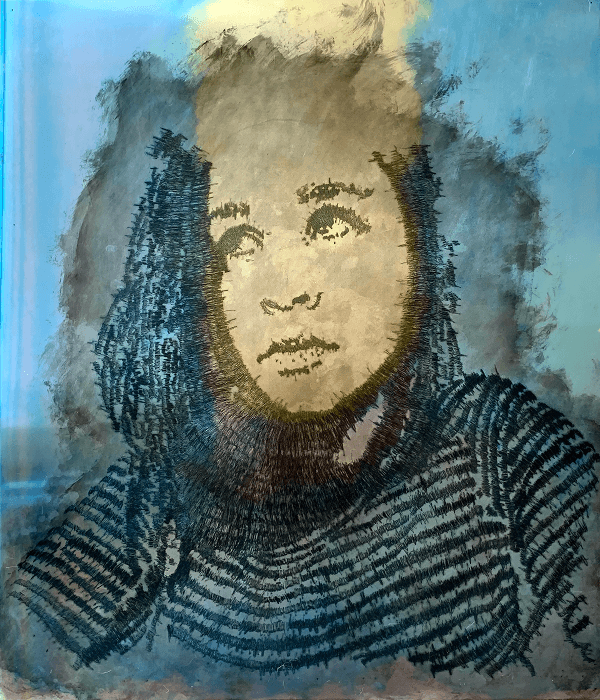
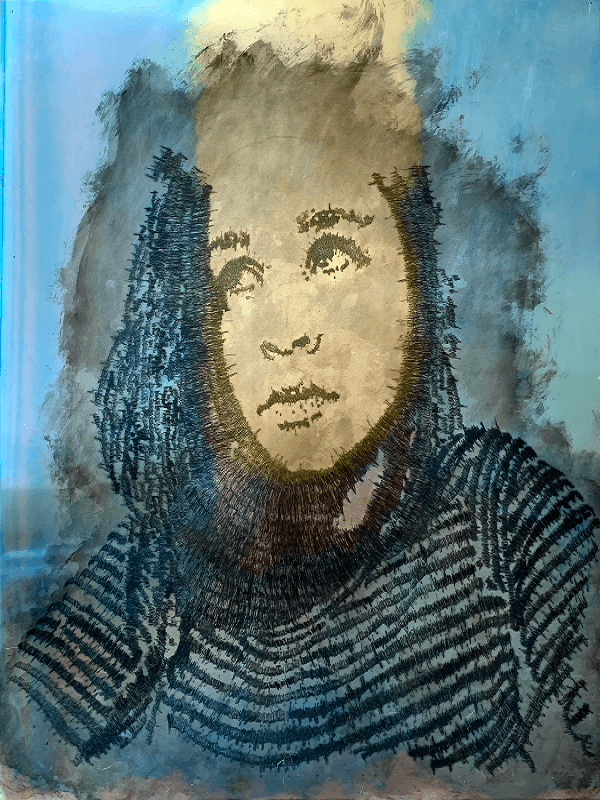
update: installations gallery images resized

Changed region(s): [[0.27, 0.51, 0.3, 0.54]]

diff --git a/src/Components/Installations/Installations.jsx b/src/Components/Installations/Installations.jsx
@@ -78,8 +78,7 @@ const Installations = () => {
                 <div className="main__image__container">
                     <img src={Image1} className="main__image" alt="Main image" />
                 </div>
-                    <h2 className="installations__content">Instalaciones</h2>
-                    <p className="installations__content">En esta sección se muestran las instalaciones</p>
+                    <p className="installations__content">La poesía se hace tachando, 2015. Fragmentos de obras, objetos encontrados, dimensiones variables.</p>
                 <div className="sub__images__container">
                     <img src={Image2} className="sub-image" alt="Sub Image 1" />
                     <img src={Image3} className="sub-image" alt="Sub Image 2" />
@@ -91,8 +90,7 @@ const Installations = () => {
                 <div className="main__image__container">
                     <img src={Image6} className="main__image" alt="Main image" />
                 </div>
-                    <h2 className="installations__content">Instalaciones</h2>
-                    <p className="installations__content">En esta sección se muestran las instalaciones</p>
+                    <p className="installations__content">Retablo in sacris, 2010. Libro de Historia del Arte, objetos familiares donados, dimensiones variables.</p>
                 <div className="sub__images__container">
                     <img src={Image7} className="sub-image" alt="Sub Image 1" />
                 </div>
@@ -101,27 +99,25 @@ const Installations = () => {
                 <div className="main__image__container">
                     <img src={Image13} className="main__image" alt="Main image" />
                 </div>
-                    <h2 className="installations__content">Instalaciones</h2>
-                    <p className="installations__content">En esta sección se muestran las instalaciones</p>
+                    <p className="installations__content">El objeto huérfano, 2018. Grabado sobre metal y tinta de imprenta, dimensiones variables.</p>
                 <div className="sub__images__container">
-                    <img src={Image8} className="sub-image" alt="Sub Image 1" />
-                    <img src={Image9} className="sub-image" alt="Sub Image 2" />
-                    <img src={Image10} className="sub-image" alt="Sub Image 3" />
+                    <img src={Image8} className="sub-image sub9" alt="Sub Image 1" />
+                    <img src={Image9} className="sub-image sub9" alt="Sub Image 2" />
+                    <img src={Image10} className="sub-image sub9" alt="Sub Image 3" />
                     {/* <img src={Image11} className="sub-image" alt="Sub Image 4" /> */}
-                    <img src={Image12} className="sub-image" alt="Sub Image 4" />
-                    <img src={Image14} className="sub-image" alt="Sub Image 4" />
-                    <img src={Image15} className="sub-image" alt="Sub Image 4" />
-                    <img src={Image16} className="sub-image" alt="Sub Image 4" />
-                    <img src={Image17} className="sub-image" alt="Sub Image 4" />
-                    <img src={Image18} className="sub-image" alt="Sub Image 4" />
+                    <img src={Image12} className="sub-image sub9" alt="Sub Image 4" />
+                    <img src={Image14} className="sub-image sub9" alt="Sub Image 4" />
+                    <img src={Image15} className="sub-image sub9" alt="Sub Image 4" />
+                    <img src={Image16} className="sub-image sub9" alt="Sub Image 4" />
+                    <img src={Image17} className="sub-image sub9" alt="Sub Image 4" />
+                    <img src={Image18} className="sub-image sub9" alt="Sub Image 4" />
                 </div>
             </section>
             <section className="installations__container">
                 <div className="main__image__container">
                     <img src={Image19} className="main__image" alt="Main image" />
                 </div>
-                    <h2 className="installations__content">Instalaciones</h2>
-                    <p className="installations__content">En esta sección se muestran las instalaciones</p>
+                    <p className="installations__content">Caja con objetos, 2010. Objetos donados, metal, tinta de imprenta, 60 cm cúbicos. Objetos donados por internos de la Prisión de Quivicán, la Habana, Cuba.</p>
                 <div className="sub__images__container">
                     <img src={Image20} className="sub-image" alt="Sub Image 1" />
                     <img src={Image21} className="sub-image" alt="Sub Image 2" />
@@ -133,8 +129,7 @@ const Installations = () => {
                 <div className="main__image__container">
                     <img src={Image25} className="main__image" alt="Main image" />
                 </div>
-                    <h2 className="installations__content">Instalaciones</h2>
-                    <p className="installations__content">En esta sección se muestran las instalaciones</p>
+                    <p className="installations__content">Sujetos, 2011. Madera, fragmentos de objetos (grafito, lápiz labial, uñas, heces fecales de gato, fotografía, papel de lija, entre otros), dimensiones variables.</p>
                 <div className="sub__images__container">
                     <img src={Image24} className="sub-image" alt="Sub Image 1" />
                 </div>
@@ -143,8 +138,7 @@ const Installations = () => {
                 <div className="main__image__container">
                     <img src={Image26} className="main__image" alt="Main image" />
                 </div>
-                    <h2 className="installations__content">Instalaciones</h2>
-                    <p className="installations__content">En esta sección se muestran las instalaciones</p>
+                    <p className="installations__content">ST, 2010. Madera y objetos personales, dimensiones variables.</p>
                 <div className="sub__images__container">
                     <img src={Image27} className="sub-image" alt="Sub Image 1" />
                 </div>
@@ -153,8 +147,7 @@ const Installations = () => {
                 <div className="main__image__container">
                     <img src={Image29} className="main__image" alt="Main image" />
                 </div>
-                    <h2 className="installations__content">Instalaciones</h2>
-                    <p className="installations__content">En esta sección se muestran las instalaciones</p>
+                    <p className="installations__content">Qué hacer con una casa sin alma, 2018. Video proyección sobre cristal, dimensiones variables.</p>
                 <div className="sub__images__container">
                     <img src={Image28} className="sub-image" alt="Sub Image 1" />
                     <img src={Image30} className="sub-image" alt="Sub Image 1" />
@@ -165,8 +158,7 @@ const Installations = () => {
                 <div className="main__image__container">
                     <img src={Image32} className="main__image" alt="Main image" />
                 </div>
-                    <h2 className="installations__content">Instalaciones</h2>
-                    <p className="installations__content">En esta sección se muestran las instalaciones</p>
+                    <p className="installations__content">S/T (Dos), 2014. Video proyección, repisa de cristal y metal, dimensiones variables.</p>
                 {/* <div className="sub__images__container">
                     <img src={Image28} className="sub-image" alt="Sub Image 1" />
                     <img src={Image30} className="sub-image" alt="Sub Image 1" />
@@ -177,8 +169,7 @@ const Installations = () => {
                 <div className="main__image__container">
                     <img src={Image39} className="main__image" alt="Main image" />
                 </div>
-                    <h2 className="installations__content">Instalaciones</h2>
-                    <p className="installations__content">En esta sección se muestran las instalaciones</p>
+                    <p className="installations__content">Nadar en seco, 2014. Tela, fragmentos de vidrios, fragmentos de imágenes, muebles de madera, dimensiones variables.</p>
                 <div className="sub__images__container">
                     <img src={Image33} className="sub-image" alt="Sub Image 1" />
                     <img src={Image34} className="sub-image" alt="Sub Image 1" />
@@ -192,8 +183,7 @@ const Installations = () => {
                 <div className="main__image__container">
                     <img src={Image41} className="main__image" alt="Main image" />
                 </div>
-                    <h2 className="installations__content">Instalaciones</h2>
-                    <p className="installations__content">En esta sección se muestran las instalaciones</p>
+                    <p className="installations__content">Soledad, 2015. Registro en texto de todos los objetos de mi casa en San Antonio de los Baños, Artemisa, Cuba, 20 x 20cm.</p>
                 <div className="sub__images__container">
                     <img src={Image40} className="sub-image" alt="Sub Image 1" />
                 </div>
@@ -202,8 +192,7 @@ const Installations = () => {
                 <div className="main__image__container">
                     <img src={Image44} className="main__image" alt="Main image" />
                 </div>
-                    <h2 className="installations__content">Instalaciones</h2>
-                    <p className="installations__content">En esta sección se muestran las instalaciones</p>
+                    <p className="installations__content">A (rl) mas Blancas, 2019. Tinta, papel y cristales rotos, dimensiones variables.</p>
                 <div className="sub__images__container">
                     <img src={Image42} className="sub-image" alt="Sub Image 1" />
                     <img src={Image43} className="sub-image" alt="Sub Image 1" />

diff --git a/src/Components/Installations/installations.css b/src/Components/Installations/installations.css
@@ -11,7 +11,7 @@
     justify-content: center;
     gap: 1rem;
     padding: 1rem;
-    margin-bottom: 3rem;
+    margin-bottom: 5rem;
 }
 
 .main__image__container {
@@ -26,8 +26,10 @@
     flex: 1;
     /* Right column takes remaining space */
     display: flex;
-    flex-wrap: wrap;
     flex-direction: row;
+    flex-wrap: wrap;
+    align-items: center;
+    justify-content: center;
     gap: 0.7rem;
     padding: 0;
     /* Adjust the gap between images */
@@ -36,20 +38,33 @@
     width: 10rem;
     /* Ensure sub images fill their container */
 }
-
+.sub-image.sub9 {
+    width: 7%;
+    height: auto;
+}
+/* 
 h2.installations__content {
     text-align: start;
     font-size: 1rem;
     margin-bottom: -1rem;
-}
+} */
 p.installations__content {
-    text-align: start;
-    font-size: 1rem;
-    margin: 0;
+    font-size: 1.2rem;
+    text-align: center;
+    margin-top: 0;
+    color: rgb(165, 164, 164);
+    width: 40%;
 }
 
-
-
+@media screen and (width <=1089px) {
+    p.installations__content {
+        width: 65%;
+    }
+    .sub-image.sub9 {
+        width: 8%;
+        height: auto;
+    }
+}
 
 @media screen and (width <=733px) {
     .main__image__container {
@@ -69,7 +84,15 @@ p.installations__content {
         width: 8rem;
         height: auto;
     }
+    .sub-image.sub9 {
+        width: 15%;
+        height: auto;
+    }
+    p.installations__content {
+        width: 90%;
+    }
 }
+
 @media screen and (width <=535px) {
     .main__image {
         width: 95%;
@@ -78,7 +101,23 @@ p.installations__content {
         width: 25%;
         height: auto;
     }
+    .sub-image.sub9 {
+        width: 17%;
+        height: auto;
+    }
     .sub__images__container {
         width: 100%;
+    }
+    p.installations__content {
+        width: 100%;
+        font-size: 1rem;
+        line-height: 1.1;
+    }
+}
+
+@media screen and (width <=346px) {
+    p.installations__content {
+        font-size: 0.9rem;
+        line-height: 1.2;
     }
 }
